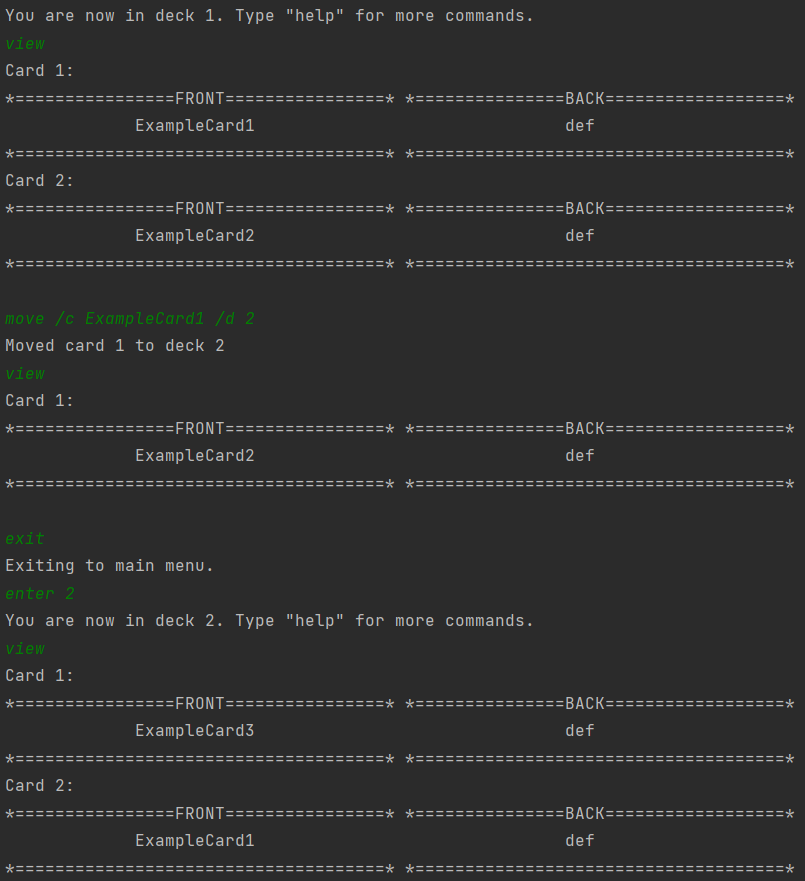
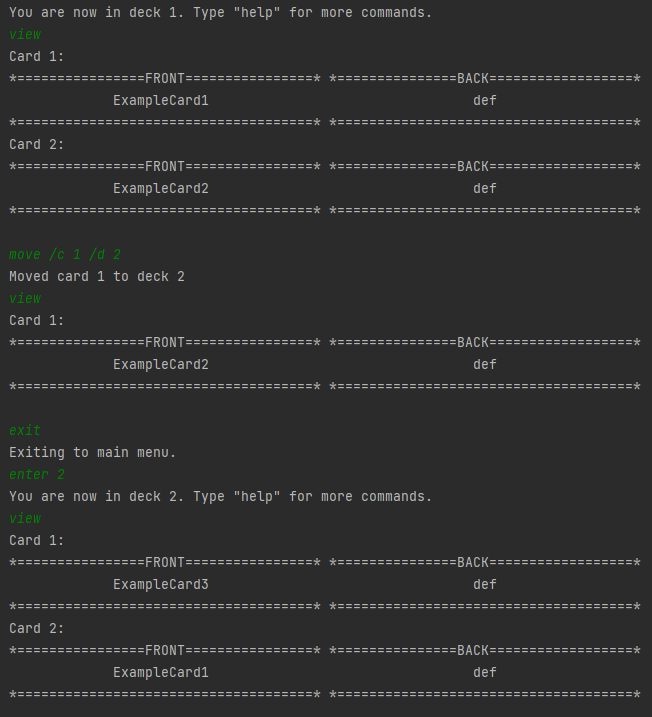
Add more screenshots to ug, refine ug and help commands
refined ug and help commands to align with our current implementation

diff --git a/src/main/java/seedu/cardli/ui/CardLiUi.java b/src/main/java/seedu/cardli/ui/CardLiUi.java
@@ -43,30 +43,33 @@ public class CardLiUi {
                 + "Description: Deletes a flashcard deck \n"
                 + "Format: delete <index of deck> \n\n"
                 + "3. edit \n"
-                + "Description: Edits a flashcard deck \n"
+                + "Description: Edits the name of a flashcard deck \n"
                 + "Format: edit /d <index of deck> /n <new name of deck> \n\n"
                 + "4. view \n"
-                + "Description: List flashcard decks \n"
+                + "Description: Lists flashcard decks \n"
                 + "Format: view \n\n"
                 + "5. enter \n"
                 + "Description: Enters a flashcard deck (further actions can be taken)\n"
                 + "Format: enter <index of deck> \n\n"
                 + "6. test \n"
-                + "Description: Testing flashcards within a deck \n"
+                + "Description: Tests flashcards \n"
                 + "Format: test \n\n"
                 + "7. viewfc \n"
-                + "Description: view overall results for flashcards \n"
+                + "Description: View overall results for flashcards \n"
                 + "Format: viewfc \n\n"
                 + "8. viewtest \n"
-                + "Description: view result of a test. \n"
-                + "Format: viewtest <test index/all> \n\n"
+                + "Description: View result of a test \n"
+                + "Format: viewtest <index of test/all> \n\n"
                 + "9. review \n"
-                + "Description: Enter review mode, which is same as test mode but tests cards "
+                + "Description: Enters review mode, which is same as test mode but tests cards "
                 + "that the user got wrong more often \n"
                 + "Format: review \n\n"
                 + "10. find \n"
-                + "Description: finds card using word/phrase of the query \n"
+                + "Description: Finds card using word/phrase of the query \n"
                 + "Format: find <word/phrase> \n\n"
+                + "11. bye \n"
+                + "Description: Exits the program \n"
+                + "Format: exit \n\n"
                 + "................................................................................"
                 + "....................................... \n";
         return help;
@@ -83,17 +86,17 @@ public class CardLiUi {
                 + " <word/phrase on back of flashcard> \n\n"
                 + "2. delete \n"
                 + "Description: Deletes a flashcard \n"
-                + "Format: delete <index> \n\n"
+                + "Format: delete <index of card> \n\n"
                 + "3. edit \n"
-                + "Description: Edits a flashcard \n"
+                + "Description: Edits the front or back of a flashcard \n"
                 + "Format: edit /c <index of card> /s <front"
                 + " or back of card> /i <word/phrase> \n\n"
                 + "4. move \n"
                 + "Description: Moves a flashcard from current deck to another deck \n"
-                + "Format: move /c <card index/front phrase of card>"
-                + " /d <deck index/name of deck> \n\n"
+                + "Format: move /c <index of card>"
+                + " /d <index of deck> \n\n"
                 + "5. view \n"
-                + "Description: List flashcards in the current deck \n"
+                + "Description: Lists flashcards in the current deck \n"
                 + "Format: view\n\n"
                 + "6. exit \n"
                 + "Description: Returns the program to main menu. \n"

diff --git a/src/main/java/seedu/cardli/commands/system/DeleteDeckCommand.java b/src/main/java/seedu/cardli/commands/system/DeleteDeckCommand.java
@@ -35,7 +35,6 @@ public class DeleteDeckCommand extends Command {
 
         } catch (IndexOutOfBoundsException e) {
             result = new CommandResult("This deck does not exist.");
-
         } catch (DeckNotExistException e) {
             result = new CommandResult(e.getMessage());
         } catch (NumberFormatException e) {

diff --git a/src/main/java/seedu/cardli/flashcard/DeckManager.java b/src/main/java/seedu/cardli/flashcard/DeckManager.java
@@ -132,7 +132,7 @@ public class DeckManager {
 
 
     private String returnDeletedDeckMessage(Deck deck) {
-        String result = "\tDeleted deck:";
+        String result = "\tDeleted deck: ";
         result = result.concat(deck.getName());
         return result;
     }

diff --git a/docs/UserGuide.md b/docs/UserGuide.md
@@ -37,8 +37,8 @@ menu to work with the flashcards.
 2. [Deck Menu](#deck-menu)
 
 ---
-
 ## Main Menu
+>💾 Your decks are saved after each command.
 ### Adding a deck: `add`
 Creates and adds a new deck with the given name, if it does not already exist.
 
@@ -52,7 +52,6 @@ Expected outcome:
 
 ![](assets/ug/adddeck.png)
 ### Viewing all decks: `view`
-
 Displays the names of all decks.
 
 Format: `view`
@@ -68,7 +67,7 @@ of the deck.
 This command is for those who want to change the name of the deck to a more
 suitable name.
 
-Format: `edit /d <index> /n <name>`
+Format: `edit /d <index of deck> /n <name>`
 
 Example of Usage:
 
@@ -80,21 +79,21 @@ Expected outcome:
 ### Deleting a deck: `delete`
 Deletes the deck indicated by the index or the name.
 
-Format: `delete <index/name of deck>`
+Format: `delete <index of deck>`
 
 Example of Usage:
 
 `delete 1`
 
-`delete test`
-
 Expected outcome:
 
+![](assets/ug/deleteDeck.png)
 
 ### Entering a deck: `enter`
 Enters the deck with the given index.
 
-Example of Usage:
+Format:
+`enter <index of deck>`
 
 Expected outcome: 
 
@@ -113,11 +112,13 @@ If you do not know the answer to the current question being tested, and you want
 question, you can do so by typing `/NEXT` or `/BACK` when prompted with the test question. 
 
 `/NEXT` will skip to the next question while `/BACK` will go back to the previous question tested.
+> ❗ Test data is not saved until a test is complete. If the program crashes mid-test, the data for that test will not be saved.
 
 Format: `test`
 
 Expected outcome:
 
+![](assets/ug/test.png)
 ### View flashcard statistics: `viewfc`
 Prints out all flashcards that have been added up to this point, including the cumulative score of
 all tests done for each of the flashcards.
@@ -126,23 +127,27 @@ Format: `viewfc`
 
 Expected outcome:
 
+![](assets/ug/viewfc.png)
 ### View test statistics: `viewtest`
 Prints the results for a particular test index or for all tests, depending on argument that 
 follows the `viewtest` command.
 
-Format: `viewtest <index>` or `viewtest all`
+Format: `viewtest <index of test>` or `viewtest all`
 
 Expected outcome:
 
+![](assets/ug/viewtestIndex.png)
+![](assets/ug/viewtestAll.png)
+
 ### Review flashcards: `review`
-Enter review mode, which is the same as test mode except that the cards tested will be the cards
+Enters review mode, which is the same as test mode except that the cards tested will be the cards
 that the user got wrong on more than 50% of the tests.
 
 Format: `review`
 
 Expected outcome:
 
-
+![](assets/ug/review.png)
 ### Finding a flashcard: `find`
 Flashcards with descriptions matching the search terms are displayed on the screen.
 
@@ -151,10 +156,19 @@ Format: `find <search terms>`
 Expected outcome:
 
 ![](assets/ug/find.png)
+
+### Listing all commands: `help`
+Lists all commands within the main menu.
+
+Format: `help`
+
+Expected outcome:
+
+![](assets/ug/help1.png)
+
+![](assets/ug/help2.png)
 ### Exiting the app: `bye`
 Exits the CardLI application within the Command Line Interface.
-Using this command will also save the current decks of flashcards into a text file named ``CardLI.txt``
-stored within the same directory as `Duke.jar`.
 
 Format: `bye`
 
@@ -163,10 +177,12 @@ Expected outcome:
 ![](assets/ug/bye.png)
 ---
 ## Deck Menu
+> 💾 Your flashcards are saved after each command.
 
 ### Adding a flashcard `add`
 Adds a flashcard with the given front and back to the current deck.
-Format: `add /f <word/phrase on front of flashcard> /b <word/phrase on front of flashcard>`
+
+Format: `add /f <word/phrase on front of flashcard> /b <word/phrase on back of flashcard>`
 
 Example of usage:
 ` add /f glycerol /b C3H8O3`
@@ -177,27 +193,18 @@ Expected outcome:
 ![](assets/ug/addflash.png)
 
 ### Deleting a flashcard: `delete`
-Format: `delete <word/phrase/index>`
 Deletes the flashcard indicated by the index or the flashcard which front matches <word/phrase> if it 
 exists in the current deck of flashcards.
 
-Format: `delete <word/phrase/index>`
-
-Remark:
-* If there are cards with identical front description in the deck, the first instance of the card 
-matching that <word/phrase> will be deleted.
+Format: `delete <index of card>`
 
 Example of usage:
 
 `delete 1`
 
-`delete card`
-
-`delete sequence diagrams`
 
 Expected outcome:
 
-![](assets/ug/deleteflash.png)
 ![](assets/ug/deleteindexflash.png)
 ### Editing a flashcard: `edit`
 Edits the front or the back of your chosen flashcard to your given input.
@@ -207,7 +214,7 @@ Edits the front or the back of your chosen flashcard to your given input.
 This command is for those who have made a mistake in the front or back of the card
 and wish to fix it without having to resort to deleting and adding the card.
 
-Format: `edit /c <index> /s <front or back> /i <input>`
+Format: `edit /c <index of card> /s <front or back> /i <input>`
 
 Example of usage:
 
@@ -226,11 +233,11 @@ This command is for those who have accidentally added a flashcard to a wrong dec
 and now want to transfer the card to another deck without going through the hassle
 of deleting the card and adding the card in another deck.
 
-Format: `move /c <card index/front phrase of card> /d <deck index/name of deck>`
+Format: `move /c <index of card> /d <index of deck>`
 
 Example of usage: 
 
-`move /c ExampleCard1 /d 2`
+`move /c 1 /d 2`
 
 Expected outcome:
 
@@ -247,10 +254,16 @@ Format: `view`
 
 Expected outcome:
 
+![](assets/ug/viewcard.png)
+
+### Listing all commands: `help`
+Lists all commands within Deck Mode.
+
+Format: `help`
 
 Expected outcome:
 
-![](assets/ug/viewcard.png)
+![](assets/ug/helpdeck.png)
 ### Exiting deck mode: ``exit``
 Exits deck mode and returns to the main menu.
 
@@ -285,13 +298,14 @@ good grasp of the application.
 |add deck|`add <name of deck>`|
 |view decks|`view`|
 |edit deck|`edit /d <index of deck> /n name`|
-|delete deck|`delete <index/name of deck>`|
+|delete deck|`delete <index>`|
 |enter deck|`enter <index of deck>`|
 |test|`test`|
 |view overall statistics for flashcards|`viewfc`|
 |view test statistics|`viewtest <index of test>` prints the result of the test indicated by the index.<br>`viewtest all` prints the results for all tests.|
 |review|`review`|
 |find flashcard|`find <word/phrase>`|
+|lists all commands in main menu|`help`|
 |exiting program|`bye`|
 
 ### Deck Menu:
@@ -299,9 +313,10 @@ good grasp of the application.
 |Action|Format|
 |------|------|
 |add flashcard|`add /f <word> /b <definition>`|
-|deleting a flashcard|`delete <word/index>`|
-|editing a flashcard|`edit /c <index> /s <front or back> /i input`|
-|moving a flashcard| `move /c <word/index of card> /d <word/index of deck>`|
+|deleting a flashcard|`delete <index of card>`|
+|editing a flashcard|`edit /c <index of card> /s <front or back> /i input`|
+|moving a flashcard| `move /c <index of card> /d <index of deck>`|
 |viewing flashcards|`view`|
+|lists all commands in deck mode|`help`|
 |exiting deck mode|`exit`|
 

diff --git a/docs/team/jwweiyin.md b/docs/team/jwweiyin.md
@@ -1,0 +1,17 @@
+# Joanne Wong  - Project Portfolio Page
+
+## Overview
+
+CardLI is a Command Line Interface app that helps students manage their flashcards. Students can organise their flashcards and test their knowledge of them with CardLI. 
+### Summary of Contributions
+
+#### Code Contributed
+[tP Code Dashboard](https://nus-cs2113-ay2122s1.github.io/tp-dashboard/#breakdown=true&search=JWweiyin)
+
+#### Enhancements Implemented
+
+#### Contributions to the UG
+
+#### Contributions to the DG
+
+#### Contributions to team-based tasks
